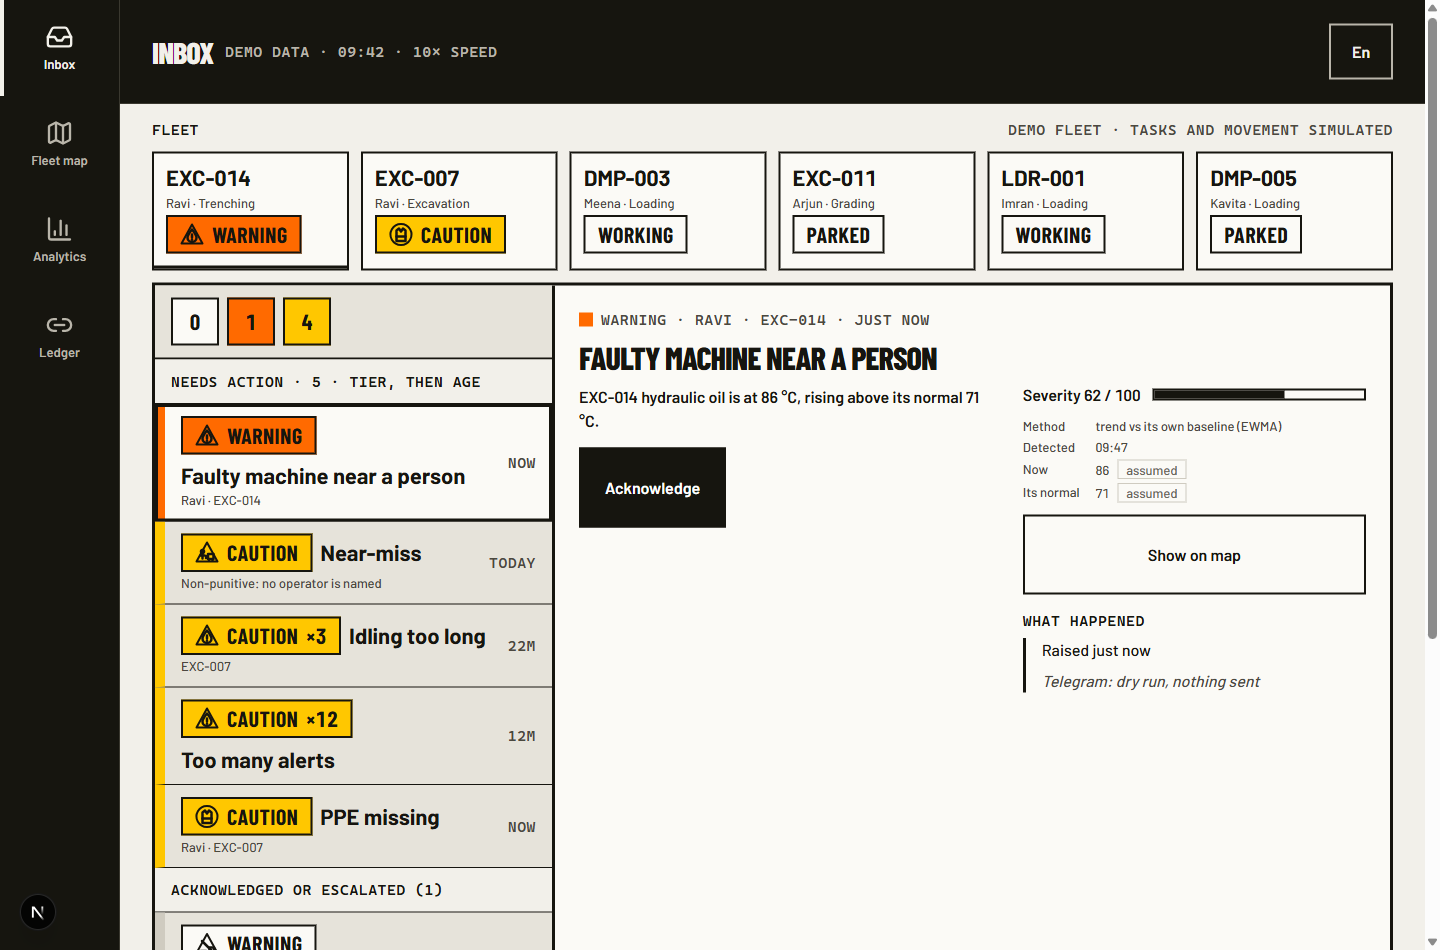
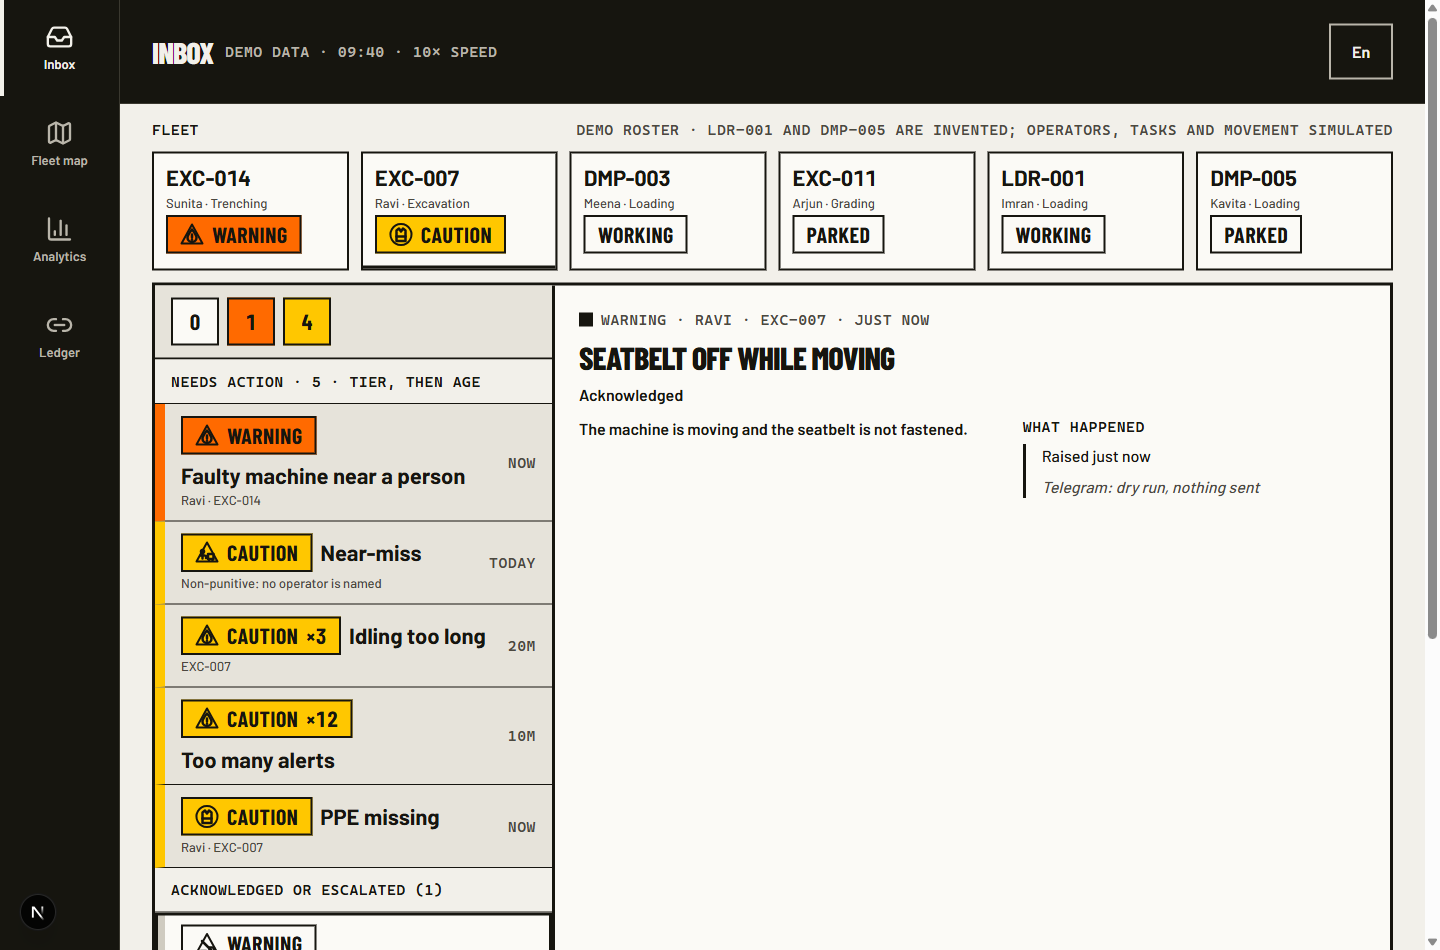
fix(web): L3 wait-fleet review fixes (M1-M3, L5-L12)

diff --git a/apps/web/src/components/inbox/fleet.ts b/apps/web/src/components/inbox/fleet.ts
@@ -2,18 +2,23 @@ import type { InboxItem } from "@/inbox/inbox";
 
 export type FleetTaskKey = "excavation" | "trenching" | "material_loading" | "grading";
 export type FleetTier = "critical" | "warning" | "caution";
+export type FleetKind = Exclude<InboxItem["kind"], "near_miss">;
+export function isTier(s: FleetState): s is FleetTier {
+  return s === "critical" || s === "warning" || s === "caution";
+}
 export type FleetState = FleetTier | "working" | "parked";
 
 type RosterRow = { code: string; operator: string; task: FleetTaskKey; moving: boolean };
 
 /**
- * The demo fleet: the machines and people the fixtures already name (EXC-007, EXC-014, DMP-003, EXC-011
- * from the Inbox and site-map fixtures), plus two extra roster rows so the strip shows six. Task and
- * moving flag are scenario data, not telemetry; the strip says so.
+ * The demo fleet: the machine codes the fixtures already name (EXC-007, EXC-014, DMP-003, EXC-011), plus two
+ * invented rows (LDR-001, DMP-005) so the strip shows six. Operator, task and moving flag are scenario data, not
+ * telemetry; the strip says so. Operators come from this roster only: an alert row's operator can be the person
+ * in danger (guardian hazard), never the driver.
  */
 export const DEMO_ROSTER: readonly RosterRow[] = [
   { code: "EXC-007", operator: "Ravi", task: "excavation", moving: true },
-  { code: "EXC-014", operator: "Ravi", task: "trenching", moving: false },
+  { code: "EXC-014", operator: "Sunita", task: "trenching", moving: false },
   { code: "DMP-003", operator: "Meena", task: "material_loading", moving: true },
   { code: "EXC-011", operator: "Arjun", task: "grading", moving: false },
   { code: "LDR-001", operator: "Imran", task: "material_loading", moving: true },
@@ -26,7 +31,7 @@ export type FleetCell = {
   task: FleetTaskKey;
   state: FleetState;
   /** The kind of the alert that sets a tier state, for its pictogram. */
-  kind: InboxItem["kind"] | null;
+  kind: FleetKind | null;
   /** True for the machine of the alert being read. */
   selected: boolean;
   /** Shown on phones before "+N more" is opened. */
@@ -38,10 +43,10 @@ const TIER_RANK: Record<FleetTier, number> = { critical: 0, warning: 1, caution:
 export const PHONE_CELLS = 3;
 
 /** Highest open tier per machine code; a row only counts while it is open. */
-function worstOpen(items: readonly InboxItem[]): Map<string, { tier: FleetTier; kind: InboxItem["kind"] }> {
-  const out = new Map<string, { tier: FleetTier; kind: InboxItem["kind"] }>();
+function worstOpen(items: readonly InboxItem[]): Map<string, { tier: FleetTier; kind: FleetKind }> {
+  const out = new Map<string, { tier: FleetTier; kind: FleetKind }>();
   for (const i of items) {
-    if (i.status !== "open" || !i.machineCode) continue;
+    if (i.status !== "open" || !i.machineCode || i.kind === "near_miss") continue;
     if (i.tier !== "critical" && i.tier !== "warning" && i.tier !== "caution") continue;
     const cur = out.get(i.machineCode);
     if (!cur || TIER_RANK[i.tier] < TIER_RANK[cur.tier]) out.set(i.machineCode, { tier: i.tier, kind: i.kind });
@@ -51,21 +56,19 @@ function worstOpen(items: readonly InboxItem[]): Map<string, { tier: FleetTier; 
 
 /**
  * Six cells, most urgent first (ties keep roster order). A machine's state is its worst open alert
- * tier, else Working when moving, else Parked. The operator named on an alert row wins over the roster.
+ * tier, else Working when moving, else Parked.
  * Phones show the first three, swapping the selected machine in if it would otherwise be hidden.
  */
 export function buildFleetCells(items: readonly InboxItem[], selectedId: string | null): FleetCell[] {
   const worst = worstOpen(items);
   const selectedCode = items.find((i) => i.id === selectedId)?.machineCode ?? null;
-  const operatorByCode = new Map<string, string>();
-  for (const i of items) if (i.machineCode && i.operatorName && !operatorByCode.has(i.machineCode)) operatorByCode.set(i.machineCode, i.operatorName);
 
   const cells = DEMO_ROSTER.map((r, idx) => {
     const w = worst.get(r.code);
     const state: FleetState = w ? w.tier : r.moving ? "working" : "parked";
-    return { idx, cell: { code: r.code, operator: operatorByCode.get(r.code) ?? r.operator, task: r.task, state, kind: w?.kind ?? null, selected: r.code === selectedCode, phone: false } satisfies FleetCell };
+    return { idx, cell: { code: r.code, operator: r.operator, task: r.task, state, kind: w?.kind ?? null, selected: r.code === selectedCode, phone: false } satisfies FleetCell };
   });
-  const rank = (s: FleetState) => (s in TIER_RANK ? TIER_RANK[s as FleetTier] : 3);
+  const rank = (s: FleetState) => (isTier(s) ? TIER_RANK[s] : 3);
   cells.sort((a, b) => rank(a.cell.state) - rank(b.cell.state) || a.idx - b.idx);
   const out = cells.map((c) => c.cell);
   const visible = new Set(out.slice(0, PHONE_CELLS).map((c) => c.code));

diff --git a/apps/web/src/components/home/loop-card.tsx b/apps/web/src/components/home/loop-card.tsx
@@ -1,6 +1,6 @@
 "use client";
 
-import { useEffect, useState } from "react";
+import { useEffect, useMemo, useRef, useState } from "react";
 import { useTranslations } from "next-intl";
 import { ItemAction, useBecause, useLessonTitle } from "@/components/training/training-bits";
 import { Plate } from "@/components/ui/plate";
@@ -8,7 +8,7 @@ import type { RecurrenceHint } from "@/data/port";
 import { useAppState, useDataPort } from "@/data/store";
 import { currentTask } from "@/hero/work-state";
 import { lastLessonDone, nextItem, trainingItems, type TrainingItem } from "@/training/assignments";
-import { idleMsSince, showWhileYouWait } from "@/components/home/while-you-wait";
+import { idleMsSince, nextIdleSince, showWhileYouWait } from "@/components/home/while-you-wait";
 
 /**
  * S1 L4, the end of the loop: my next assignment as a full-width Practise (primary) over a
@@ -24,22 +24,24 @@ export function LoopCard() {
   const tasks = useAppState((s) => s.tasks);
   const machine = useAppState((s) => s.machine);
   const simNow = useAppState((s) => s.clock?.sim_now ?? null);
+  const live = useAppState((s) => s.connectivity.kind === "live" || s.connectivity.kind === "fixture");
   const status = currentTask(tasks)?.status ?? null;
   const parked = (status === "paused" || status === "blocked_ppe") && machine?.moving === false;
   // Sim time at which this idle spell was first seen; cleared the moment the machine moves or the task resumes.
   const [idleSince, setIdleSince] = useState<number | null>(null);
   const nowMs = simNow ? Date.parse(simNow) : Number.NaN;
-  if (parked && idleSince === null && !Number.isNaN(nowMs)) setIdleSince(nowMs);
-  else if (!parked && idleSince !== null) setIdleSince(null);
+  const nextSince = nextIdleSince(idleSince, parked, nowMs);
+  if (nextSince !== idleSince) setIdleSince(nextSince);
+  const items = useMemo(() => trainingItems(assignments, progress, times), [assignments, progress, times]);
   if (!snapshot) return null;
-  const items = trainingItems(assignments, progress, times);
   const next = nextItem(items);
   // The lesson of the same assignment, offered beside Practise while it is still open.
   const lesson = next?.kind === "replay" ? (items.find((i) => i.kind === "lesson" && i.assignmentId === next.assignmentId && i.status === "todo") ?? null) : null;
   const doneCode = lastLessonDone(assignments, progress);
   const waiting = showWhileYouWait({
     taskStatus: status,
-    moving: machine ? machine.moving : null,
+    // A dropped feed leaves `moving` stale, so the card steps aside until the signal is back.
+    moving: machine && live ? machine.moving : null,
     hasAssignment: next !== null,
     idleMs: parked ? idleMsSince(idleSince, simNow) : null,
   });
@@ -72,8 +74,16 @@ function NextCard({ item, lesson }: { item: TrainingItem; lesson: TrainingItem |
 function WaitCard({ item }: { item: TrainingItem }) {
   const t = useTranslations("wait");
   const title = useLessonTitle(item.lessonCode);
+  // If the machine moves while a button here has focus, hand focus to the Practice card that replaces this one.
+  const hadFocus = useRef(false);
+  useEffect(
+    () => () => {
+      if (hadFocus.current) window.setTimeout(() => document.querySelector<HTMLElement>(".loop a, .loop button")?.focus(), 0);
+    },
+    [],
+  );
   return (
-    <section className="loop wait" aria-label={t("title")}>
+    <section className="loop wait" aria-label={t("title")} onFocus={() => (hadFocus.current = true)} onBlur={() => (hadFocus.current = false)}>
       <p className="t-caption sec-label">{t("title")}</p>
       <Plate className="flex flex-col gap-3">
         <p className="t-caption sec-because">{t("why")}</p>

diff --git a/apps/web/src/components/inbox/fleet-strip.tsx b/apps/web/src/components/inbox/fleet-strip.tsx
@@ -1,9 +1,9 @@
 "use client";
 
-import { useState } from "react";
+import { useId, useState } from "react";
 import { useTranslations } from "next-intl";
 import { KIND_PICTO } from "@/alerts/kinds";
-import { buildFleetCells, PHONE_CELLS } from "@/components/inbox/fleet";
+import { buildFleetCells, isTier, PHONE_CELLS } from "@/components/inbox/fleet";
 import { Chip } from "@/components/ui/chip";
 import { Pictogram } from "@/components/ui/pictogram";
 import type { InboxItem } from "@/inbox/inbox";
@@ -17,29 +17,29 @@ import type { InboxItem } from "@/inbox/inbox";
 export function FleetStrip({ items, selectedId }: { items: readonly InboxItem[]; selectedId: string | null }) {
   const t = useTranslations("fleet");
   const [open, setOpen] = useState(false);
+  const uid = useId();
   const cells = buildFleetCells(items, selectedId);
   const hidden = cells.length - PHONE_CELLS;
   return (
-    <section className="fleet" aria-label={t("title")} data-open={open || undefined}>
+    <section className="fleet" aria-labelledby={`${uid}-h`} data-open={open || undefined}>
       <div className="fleet-head">
-        <h2 className="t-caption">{t("title")}</h2>
+        <h2 id={`${uid}-h`} className="t-caption">{t("title")}</h2>
         <p className="t-caption text-ink-2">{t("note")}</p>
       </div>
-      <ul className="fleet-cells">
+      <ul id={`${uid}-l`} className="fleet-cells">
         {cells.map((c) => {
-          const tier = c.state === "critical" || c.state === "warning" || c.state === "caution";
           return (
             <li key={c.code} className="fleet-cell" data-phone={c.phone || undefined} data-selected={c.selected || undefined} aria-current={c.selected ? "true" : undefined}>
               <span className="fleet-code t-title tnum">{c.code}</span>
               <span className="fleet-who t-meta text-ink-2">{t("who", { operator: c.operator, task: t(`task.${c.task}`) })}</span>
-              <Chip tone={tier ? (c.state as "critical" | "warning" | "caution") : "outline"} word icon={tier ? <Pictogram name={c.kind ? KIND_PICTO[c.kind === "near_miss" ? "proximity_zone" : c.kind] : "fault"} /> : undefined}>
+              <Chip tone={isTier(c.state) ? c.state : "outline"} word icon={isTier(c.state) ? <Pictogram name={c.kind ? KIND_PICTO[c.kind] : "fault"} /> : undefined}>
                 {t(`state.${c.state}`)}
               </Chip>
             </li>
           );
         })}
       </ul>
-      <button type="button" className="fleet-more t-label" aria-expanded={open} onClick={() => setOpen((v) => !v)}>
+      <button type="button" className="fleet-more t-label" aria-expanded={open} aria-controls={`${uid}-l`} onClick={() => setOpen((v) => !v)}>
         {open ? t("less") : t("more", { n: hidden })}
       </button>
     </section>

diff --git a/apps/web/src/components/home/while-you-wait.test.ts b/apps/web/src/components/home/while-you-wait.test.ts
@@ -1,5 +1,5 @@
 import { describe, expect, it } from "vitest";
-import { idleMsSince, showWhileYouWait, type WaitInput } from "./while-you-wait";
+import { idleMsSince, nextIdleSince, showWhileYouWait, type WaitInput } from "./while-you-wait";
 
 const base: WaitInput = { taskStatus: "paused", moving: false, hasAssignment: true, idleMs: 3 * 60_000 };
 
@@ -25,6 +25,20 @@ describe("showWhileYouWait", () => {
     for (const s of ["in_progress", "planned", "completed", "cancelled", null] as const) {
       expect(showWhileYouWait({ ...base, taskStatus: s })).toBe(false);
     }
+  });
+});
+
+describe("nextIdleSince", () => {
+  it("starts on the first parked render and keeps the start while parked", () => {
+    expect(nextIdleSince(null, true, 1000)).toBe(1000);
+    expect(nextIdleSince(1000, true, 9000)).toBe(1000);
+  });
+  it("clears the moment the machine moves or the task resumes", () => {
+    expect(nextIdleSince(1000, false, 9000)).toBeNull();
+    expect(nextIdleSince(null, false, 9000)).toBeNull();
+  });
+  it("does not start without a usable clock", () => {
+    expect(nextIdleSince(null, true, Number.NaN)).toBeNull();
   });
 });
 

diff --git a/apps/web/src/components/inbox/fleet.test.ts b/apps/web/src/components/inbox/fleet.test.ts
@@ -46,9 +46,10 @@ describe("buildFleetCells", () => {
     expect(buildFleetCells([row({ id: "x" })], "x").some((c) => c.selected)).toBe(false);
   });
 
-  it("prefers the operator named on an alert row", () => {
-    const cells = buildFleetCells([row({ id: "a", machineCode: "DMP-003", operatorName: "Meena D." })], null);
-    expect(cells.find((c) => c.code === "DMP-003")?.operator).toBe("Meena D.");
+  it("never takes the operator from an alert row and gives each machine its own driver", () => {
+    const cells = buildFleetCells([row({ id: "a", machineCode: "EXC-014", kind: "guardian_hazard", tier: "warning", operatorName: "Ravi" })], null);
+    expect(cells.find((c) => c.code === "EXC-014")?.operator).not.toBe("Ravi");
+    expect(cells.filter((c) => c.operator === "Ravi").map((c) => c.code)).toEqual(["EXC-007"]);
   });
 
   it("roster has six unique codes", () => {

diff --git a/apps/web/src/components/inbox/inbox-screen.tsx b/apps/web/src/components/inbox/inbox-screen.tsx
@@ -277,7 +277,6 @@ export function InboxScreen() {
   return (
     <div className="inbox-triage">
       {banner}
-      <FleetStrip items={items} selectedId={lead?.id ?? null} />
       <p className="t-label inbox-count">
         {t("needsAction")} <span className="tnum">({groups.needsAction.length})</span>
       </p>
@@ -286,6 +285,7 @@ export function InboxScreen() {
       ) : (
         <div ref={leadRef}>{detail(lead, "lead", leadIndex >= 0 ? t("ofN", { i: leadIndex + 1, n: groups.needsAction.length }) : undefined)}</div>
       )}
+      <FleetStrip items={items} selectedId={lead?.id ?? null} />
       {queued.length > 0 ? (
         <section aria-label={t("queueLabel", { n: queued.length })} className="inbox-queue">
           <h2 className="t-label">{t("queueLabel", { n: queued.length })}</h2>

diff --git a/apps/web/src/components/home/while-you-wait.ts b/apps/web/src/components/home/while-you-wait.ts
@@ -26,6 +26,16 @@ export function showWhileYouWait(i: WaitInput): boolean {
   return i.idleMs !== null && i.idleMs >= WAIT_MIN_IDLE_MIN * 60_000;
 }
 
+/**
+ * The idle-spell start (epoch ms): set on the first parked render with a usable clock, kept while parked,
+ * cleared the moment the machine moves or the task resumes.
+ */
+export function nextIdleSince(prev: number | null, parked: boolean, nowMs: number): number | null {
+  if (!parked) return null;
+  if (prev !== null) return prev;
+  return Number.isNaN(nowMs) ? null : nowMs;
+}
+
 /** Milliseconds from `since` (epoch ms) to `now` (ISO string), or null when either is unusable. */
 export function idleMsSince(since: number | null, now: string | null): number | null {
   if (since === null || now === null) return null;

diff --git a/apps/web/src/styles/fleet.css b/apps/web/src/styles/fleet.css
@@ -1,4 +1,4 @@
-/* Fleet strip (FM Inbox). Tokens only. Six cells from 1024 px; phones show three plus "+3 more". */
+/* Fleet strip (FM Inbox). Tokens only. Six columns from 1280 px, three below; phones show three plus "+3 more". */
 .fleet {
   display: flex;
   flex-direction: column;
@@ -21,7 +21,7 @@
   padding: 0;
   list-style: none;
 }
-@media (min-width: 1024px) {
+@media (min-width: 1280px) {
   .fleet-cells { grid-template-columns: repeat(6, minmax(0, 1fr)); }
 }
 .fleet-cell {

diff --git a/docs/sessions/track-x.md b/docs/sessions/track-x.md
@@ -10,3 +10,4 @@
 2026-11-12 | L3 bay-machine (T2+T3) | DONE | see git log | shared tsc clean, vitest 147/147 (3 new); web typecheck+lint clean, vitest 437/437 (6 new parts tests), build ok; Playwright 375/1440 no h-scroll, rows 86 px | machine.parts in rpc.ts SnapshotMachine (ids boom_ram,tracks,engine,cab,bucket,rear_sensor per brief, not the study's seatbelt id); cab derived from seatbelt+moving; drawing+list mounted on Home above LoopCard; new tokens --bay, --bay-grid, --bay-grid-step; replay variant has no state fills
 2026-11-12 | L3 bay-machine review fixes | DONE | see git log | web typecheck+lint clean, vitest 437/437, build ok; shared tsc clean, vitest 147/147 | fixed Medium 1-4, Low 5,6,7,9; skipped Low 8 (tracks/sensor geometry) and 10 (render tests, no Testing Library)
 2026-11-12 | L3 wait-fleet (T6+T8) | DONE | see git log | web typecheck+lint clean, vitest 506/506 (13 new: while-you-wait, fleet), build ok; Playwright 375/768/1440 /fm and /op, no h-scroll on /fm at 360 | Deviations: fixtures hold only 4 machines so DEMO_ROSTER adds LDR-001 and DMP-005 (strip captioned simulated); FleetStrip mounted twice in inbox-screen (desktop + triage) for phone support; idle >=3 min measured from first sight of the parked state in the store; /op has 3 px h-scroll at 360 from .tape-pin in L2's shift tape (not mine)
+2026-11-12 | L3 wait-fleet review fixes | DONE | see git log | web typecheck+lint clean, vitest 509/509 (3 new nextIdleSince), merged origin/main | fixed M1 (roster-only drivers, EXC-014 Sunita), M2 (6 cols from 1280, verified 768/1024/1280/1440), M3 (phone strip below triage lead, heading y=254 at 375x780), L5 (no live feed hides card), L6, L7, L8, L9 (neutral copy, focus handoff), L10, L11, L12; L4 acknowledged (2 FleetStrip mounts only); skipped reducer pausedSince (L5 partial)
